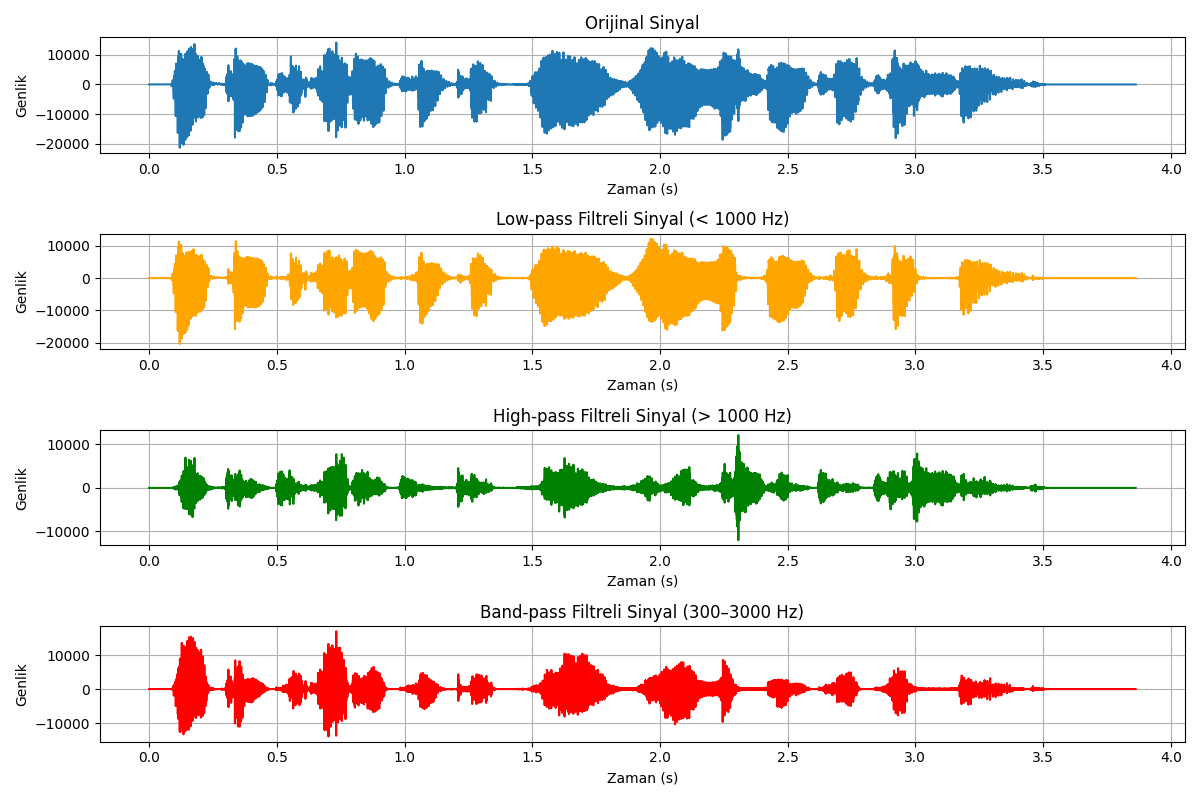
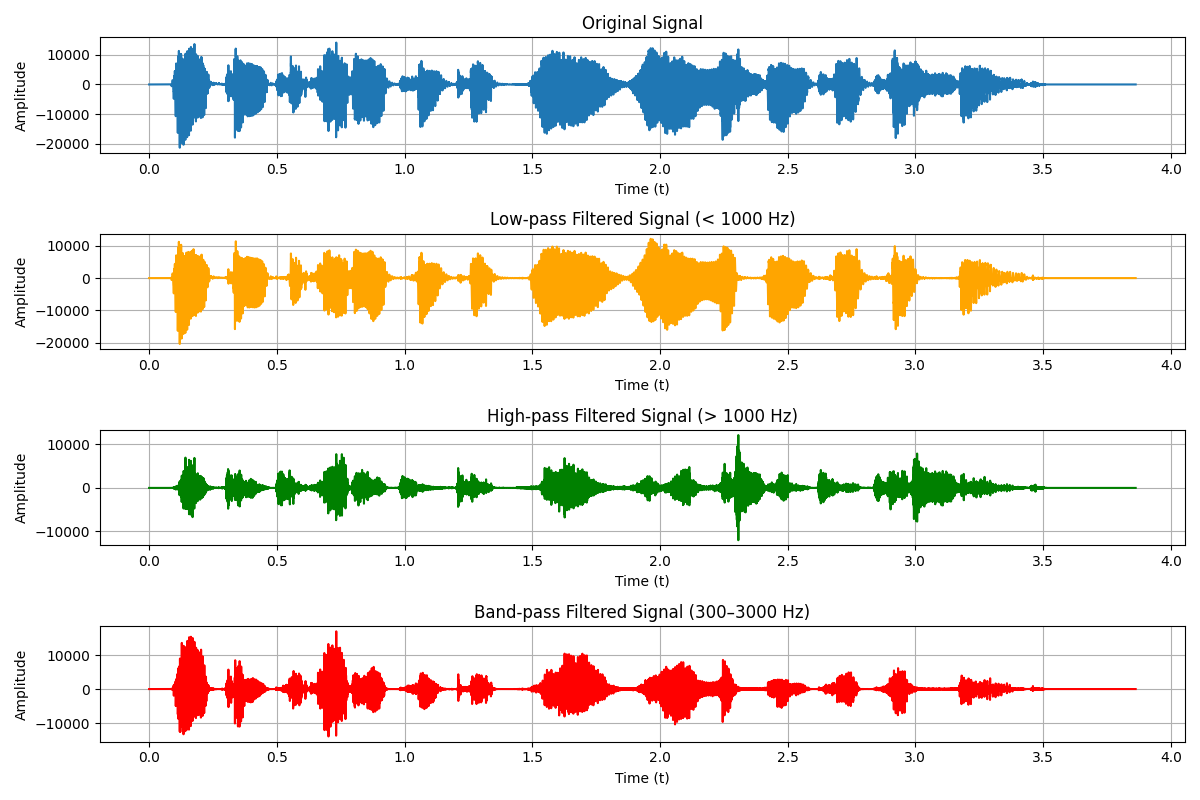
Update plot titles and labels to English in Audio-toolkit

diff --git a/src/spectrogram.py b/src/spectrogram.py
@@ -22,7 +22,7 @@ f, t, Sxx = spectrogram(data, fs=fs, nperseg=1024)
 plt.figure(figsize=(12,6))
 #Bu spectrogram kısmında oluyor çünkü Sxx’in bazı hücreleri 0 değerinde. 10*np.log10(0) → matematikte −∞.
 plt.pcolormesh(t, f, 10*np.log10(Sxx + 1e-10), shading='gouraud') 
-plt.title("Sound Signal Spectrogramı")
+plt.title("Sound Signal Spectrogram")
 plt.ylabel("Frequency (Hz)")
 plt.xlabel("Time (t)")
 plt.colorbar(label="Power (dB)")
